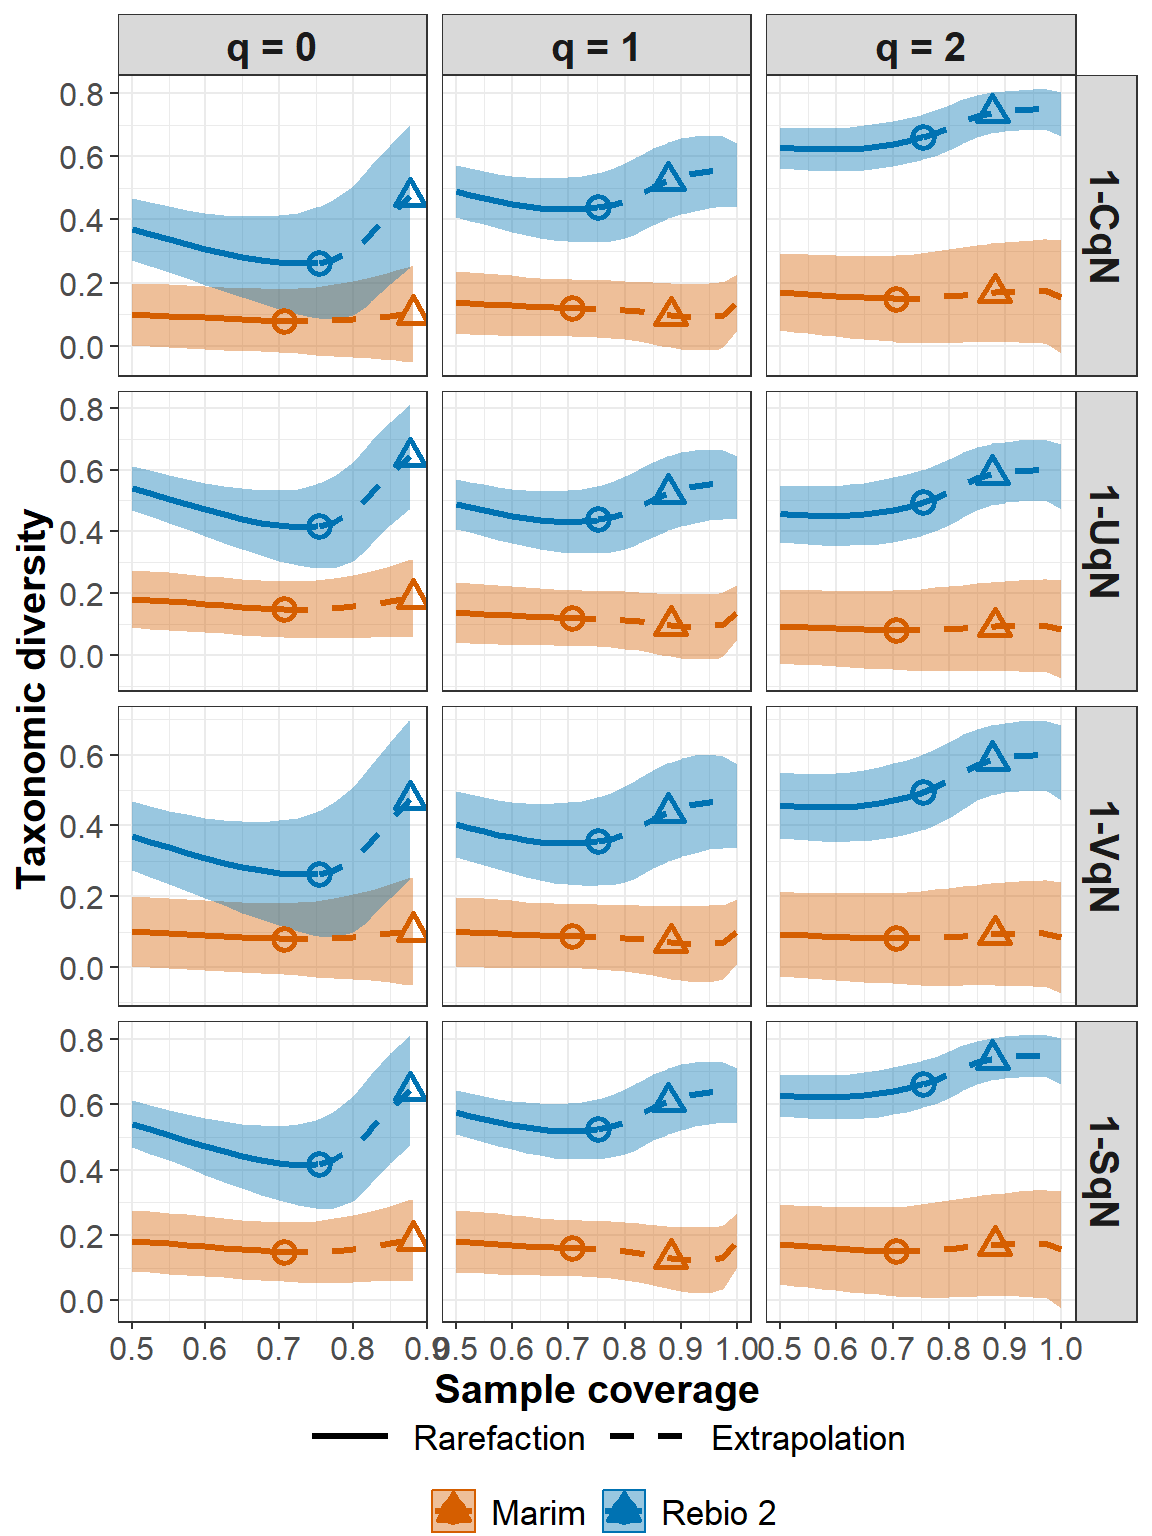
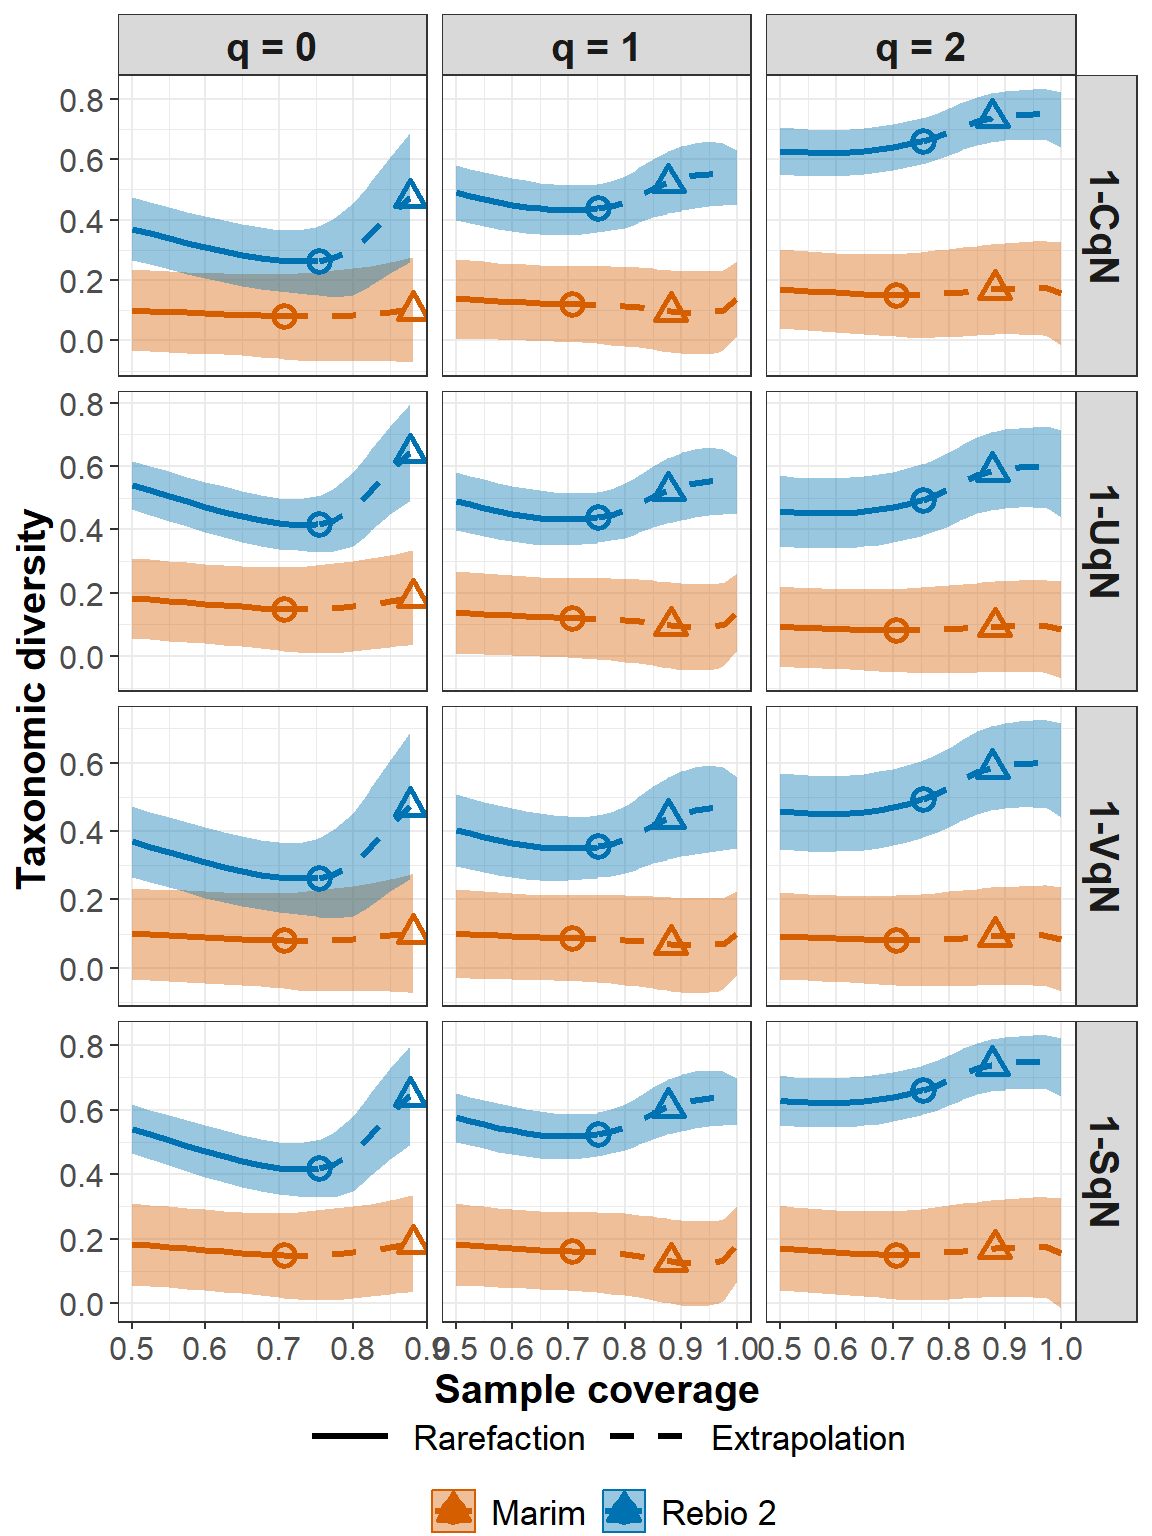
Update vignettes and README.

diff --git a/README.md b/README.md
@@ -45,13 +45,14 @@ extrapolation (R/E):
     appropriate size. This type of sampling curve plots the diversity
     estimates with respect to sample size.
 
-2.  Coverage-based R/E sampling curves: `iNEXT.beta3D` computes
-    <font color=#FF6781>gamma, alpha, and beta</font> diversity
-    estimates and <font color=#FF6781>four dissimilarity</font> measures
-    estimates for rarefied and extrapolated samples based on a
-    standardized level of sample completeness (as measured by sample
-    coverage) up to an appropriate coverage value. This type of sampling
-    curve plots the diversity estimates with respect to sample coverage.
+2.  Sample-coverage-based (or coverage-based) R/E sampling curves:
+    `iNEXT.beta3D` computes <font color=#FF6781>gamma, alpha, and
+    beta</font> diversity estimates and <font color=#FF6781>four
+    dissimilarity</font> measures estimates for rarefied and
+    extrapolated samples based on a standardized level of sample
+    completeness (as measured by sample coverage) up to an appropriate
+    coverage value. This type of sampling curve plots the diversity
+    estimates with respect to sample coverage.
 
 `iNEXT.beta3D` also plots the above two types of sampling curves for
 gamma, alpha, and beta diversity and four dissimilarity-turnover.
@@ -617,66 +618,66 @@ Abundance_TD
 
     $gamma
       Estimate Order.q      Method    SC   Size  s.e.    LCL    UCL Region diversity
-    1   58.408       0 Rarefaction 0.500 83.059 3.070 52.391 64.425  Marim        TD
-    2   51.347       1 Rarefaction 0.500 83.059 2.852 45.757 56.936  Marim        TD
-    3   43.332       2 Rarefaction 0.500 83.059 2.777 37.889 48.775  Marim        TD
-    4   62.187       0 Rarefaction 0.525 90.787 3.200 55.915 68.458  Marim        TD
-    5   54.203       1 Rarefaction 0.525 90.787 2.957 48.408 59.998  Marim        TD
-    6   45.322       2 Rarefaction 0.525 90.787 2.897 39.645 51.000  Marim        TD
+    1   58.408       0 Rarefaction 0.500 83.059 3.262 52.015 64.801  Marim        TD
+    2   51.347       1 Rarefaction 0.500 83.059 2.971 45.524 57.169  Marim        TD
+    3   43.332       2 Rarefaction 0.500 83.059 2.775 37.892 48.772  Marim        TD
+    4   62.187       0 Rarefaction 0.525 90.787 3.417 55.490 68.883  Marim        TD
+    5   54.203       1 Rarefaction 0.525 90.787 3.092 48.143 60.262  Marim        TD
+    6   45.322       2 Rarefaction 0.525 90.787 2.893 39.652 50.992  Marim        TD
 
     $alpha
       Estimate Order.q      Method    SC    Size  s.e.    LCL    UCL Region diversity
-    1   53.071       0 Rarefaction 0.500 151.449 3.505 46.201 59.940  Marim        TD
-    2   46.661       1 Rarefaction 0.500 151.449 3.175 40.438 52.883  Marim        TD
-    3   39.619       2 Rarefaction 0.500 151.449 2.902 33.931 45.307  Marim        TD
-    4   56.626       0 Rarefaction 0.525 166.013 3.685 49.404 63.847  Marim        TD
-    5   49.339       1 Rarefaction 0.525 166.013 3.312 42.848 55.830  Marim        TD
-    6   41.513       2 Rarefaction 0.525 166.013 3.026 35.582 47.444  Marim        TD
+    1   53.071       0 Rarefaction 0.500 151.449 3.202 46.795 59.346  Marim        TD
+    2   46.661       1 Rarefaction 0.500 151.449 2.917 40.943 52.379  Marim        TD
+    3   39.619       2 Rarefaction 0.500 151.449 2.709 34.310 44.928  Marim        TD
+    4   56.626       0 Rarefaction 0.525 166.013 3.359 50.041 63.210  Marim        TD
+    5   49.339       1 Rarefaction 0.525 166.013 3.036 43.388 55.290  Marim        TD
+    6   41.513       2 Rarefaction 0.525 166.013 2.821 35.984 47.041  Marim        TD
 
     $beta
       Estimate Order.q      Method    SC    Size  s.e.   LCL   UCL Region diversity
-    1    1.101       0 Rarefaction 0.500 151.449 0.060 0.982 1.219  Marim        TD
-    2    1.100       1 Rarefaction 0.500 151.449 0.059 0.986 1.215  Marim        TD
-    3    1.094       2 Rarefaction 0.500 151.449 0.062 0.972 1.215  Marim        TD
-    4    1.098       0 Rarefaction 0.525 166.013 0.061 0.978 1.218  Marim        TD
-    5    1.099       1 Rarefaction 0.525 166.013 0.059 0.984 1.214  Marim        TD
-    6    1.092       2 Rarefaction 0.525 166.013 0.063 0.969 1.215  Marim        TD
+    1    1.101       0 Rarefaction 0.500 151.449 0.065 0.974 1.227  Marim        TD
+    2    1.100       1 Rarefaction 0.500 151.449 0.060 0.983 1.217  Marim        TD
+    3    1.094       2 Rarefaction 0.500 151.449 0.058 0.981 1.207  Marim        TD
+    4    1.098       0 Rarefaction 0.525 166.013 0.066 0.970 1.227  Marim        TD
+    5    1.099       1 Rarefaction 0.525 166.013 0.060 0.981 1.216  Marim        TD
+    6    1.092       2 Rarefaction 0.525 166.013 0.058 0.978 1.205  Marim        TD
 
     $C
       Estimate Order.q      Method    SC    Size  s.e.    LCL   UCL Region diversity
-    1    0.101       0 Rarefaction 0.500 151.449 0.060 -0.018 0.219  Marim        TD
-    2    0.138       1 Rarefaction 0.500 151.449 0.058  0.025 0.251  Marim        TD
-    3    0.171       2 Rarefaction 0.500 151.449 0.061  0.051 0.292  Marim        TD
-    4    0.098       0 Rarefaction 0.525 166.013 0.061 -0.022 0.218  Marim        TD
-    5    0.136       1 Rarefaction 0.525 166.013 0.058  0.023 0.249  Marim        TD
-    6    0.168       2 Rarefaction 0.525 166.013 0.062  0.046 0.290  Marim        TD
+    1    0.101       0 Rarefaction 0.500 151.449 0.065 -0.026 0.227  Marim        TD
+    2    0.138       1 Rarefaction 0.500 151.449 0.059  0.022 0.254  Marim        TD
+    3    0.171       2 Rarefaction 0.500 151.449 0.057  0.059 0.284  Marim        TD
+    4    0.098       0 Rarefaction 0.525 166.013 0.066 -0.030 0.227  Marim        TD
+    5    0.136       1 Rarefaction 0.525 166.013 0.059  0.020 0.252  Marim        TD
+    6    0.168       2 Rarefaction 0.525 166.013 0.058  0.055 0.281  Marim        TD
 
     $U
       Estimate Order.q      Method    SC    Size  s.e.    LCL   UCL Region diversity
-    1    0.183       0 Rarefaction 0.500 151.449 0.055  0.075 0.290  Marim        TD
-    2    0.138       1 Rarefaction 0.500 151.449 0.058  0.025 0.251  Marim        TD
-    3    0.094       2 Rarefaction 0.500 151.449 0.062 -0.028 0.215  Marim        TD
-    4    0.179       0 Rarefaction 0.525 166.013 0.055  0.071 0.287  Marim        TD
-    5    0.136       1 Rarefaction 0.525 166.013 0.058  0.023 0.249  Marim        TD
-    6    0.092       2 Rarefaction 0.525 166.013 0.063 -0.031 0.215  Marim        TD
+    1    0.183       0 Rarefaction 0.500 151.449 0.059  0.066 0.299  Marim        TD
+    2    0.138       1 Rarefaction 0.500 151.449 0.059  0.022 0.254  Marim        TD
+    3    0.094       2 Rarefaction 0.500 151.449 0.058 -0.019 0.207  Marim        TD
+    4    0.179       0 Rarefaction 0.525 166.013 0.060  0.061 0.297  Marim        TD
+    5    0.136       1 Rarefaction 0.525 166.013 0.059  0.020 0.252  Marim        TD
+    6    0.092       2 Rarefaction 0.525 166.013 0.058 -0.022 0.205  Marim        TD
 
     $V
       Estimate Order.q      Method    SC    Size  s.e.    LCL   UCL Region diversity
-    1    0.101       0 Rarefaction 0.500 151.449 0.060 -0.018 0.219  Marim        TD
-    2    0.100       1 Rarefaction 0.500 151.449 0.059 -0.014 0.215  Marim        TD
-    3    0.094       2 Rarefaction 0.500 151.449 0.062 -0.028 0.215  Marim        TD
-    4    0.098       0 Rarefaction 0.525 166.013 0.061 -0.022 0.218  Marim        TD
-    5    0.099       1 Rarefaction 0.525 166.013 0.059 -0.016 0.214  Marim        TD
-    6    0.092       2 Rarefaction 0.525 166.013 0.063 -0.031 0.215  Marim        TD
+    1    0.101       0 Rarefaction 0.500 151.449 0.065 -0.026 0.227  Marim        TD
+    2    0.100       1 Rarefaction 0.500 151.449 0.060 -0.017 0.217  Marim        TD
+    3    0.094       2 Rarefaction 0.500 151.449 0.058 -0.019 0.207  Marim        TD
+    4    0.098       0 Rarefaction 0.525 166.013 0.066 -0.030 0.227  Marim        TD
+    5    0.099       1 Rarefaction 0.525 166.013 0.060 -0.019 0.216  Marim        TD
+    6    0.092       2 Rarefaction 0.525 166.013 0.058 -0.022 0.205  Marim        TD
 
     $S
       Estimate Order.q      Method    SC    Size  s.e.   LCL   UCL Region diversity
-    1    0.183       0 Rarefaction 0.500 151.449 0.055 0.075 0.290  Marim        TD
-    2    0.183       1 Rarefaction 0.500 151.449 0.055 0.075 0.290  Marim        TD
-    3    0.171       2 Rarefaction 0.500 151.449 0.061 0.051 0.292  Marim        TD
-    4    0.179       0 Rarefaction 0.525 166.013 0.055 0.071 0.287  Marim        TD
-    5    0.179       1 Rarefaction 0.525 166.013 0.055 0.073 0.286  Marim        TD
-    6    0.168       2 Rarefaction 0.525 166.013 0.062 0.046 0.290  Marim        TD
+    1    0.183       0 Rarefaction 0.500 151.449 0.059 0.066 0.299  Marim        TD
+    2    0.183       1 Rarefaction 0.500 151.449 0.056 0.072 0.293  Marim        TD
+    3    0.171       2 Rarefaction 0.500 151.449 0.057 0.059 0.284  Marim        TD
+    4    0.179       0 Rarefaction 0.525 166.013 0.060 0.061 0.297  Marim        TD
+    5    0.179       1 Rarefaction 0.525 166.013 0.056 0.069 0.290  Marim        TD
+    6    0.168       2 Rarefaction 0.525 166.013 0.058 0.055 0.281  Marim        TD
 
 The output contains seven data frames: `gamma`, `alpha`, `beta`, `C`,
 `U`, `V`, `S`. For each data frame, it includes the diversity estimate
